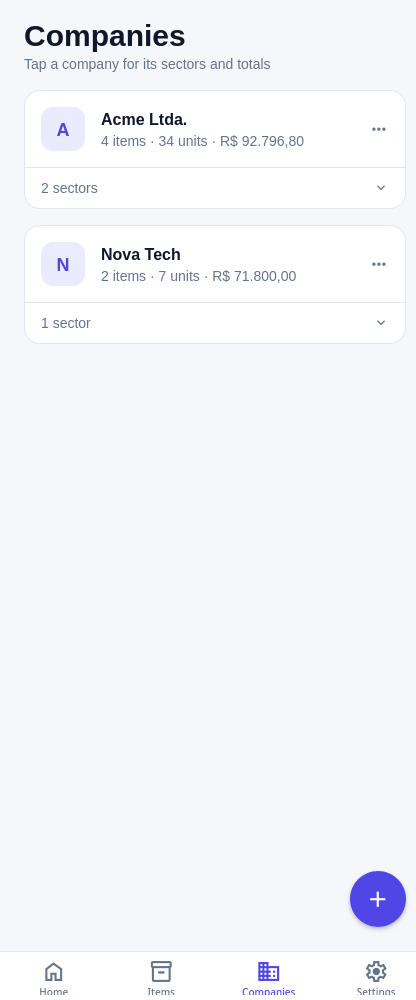
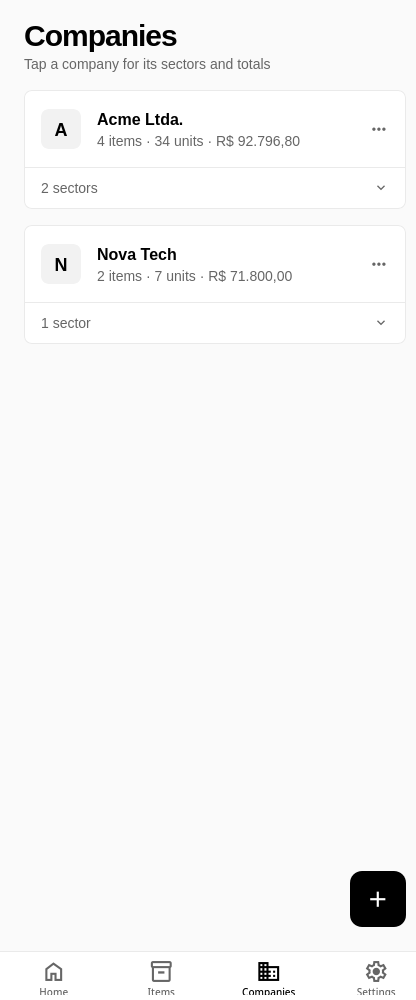
docs: refresh screenshots for the new design and languages; update readme

diff --git a/README.md b/README.md
@@ -16,6 +16,8 @@ between devices through CSV export/import.
 <p align="center">
   <img src="docs/screenshots/home-dark.png" width="23%" alt="Dashboard, dark theme" />
   <img src="docs/screenshots/items-dark.png" width="23%" alt="Items, dark theme" />
+  <img src="docs/screenshots/home-pt.png" width="23%" alt="Dashboard in Portuguese" />
+  <img src="docs/screenshots/items-pt.png" width="23%" alt="Items in Portuguese" />
 </p>
 
 ## Features
@@ -42,8 +44,17 @@ between devices through CSV export/import.
 
 **Settings**
 - Appearance: follow the system, or force light / dark (remembered across launches).
+- Language: **English** and **Português (BR)**; follows the device language by default and can be overridden.
 - CSV export / import (merge by ID, existing rows are kept).
 - Load sample data, or delete all data.
+
+## Design
+
+The UI follows a Vercel / Geist-inspired look: a near-monochrome black-and-white
+palette, hairline borders instead of shadows, tight radii, inverted primary buttons
+and tightly tracked headings. Blue is used only for links; amber and red are reserved
+for stock warnings and destructive actions. Both light and dark themes share the same
+tokens in `src/constants/theme.ts`.
 
 ## Tech stack
 
@@ -69,9 +80,13 @@ src/
 │   ├── useInventory.tsx     # inventory state provider + CRUD
 │   ├── use-theme-preference.tsx # system / light / dark preference
 │   └── use-theme.ts         # resolves the active color palette
+├── i18n/
+│   ├── translations.ts      # English and Portuguese dictionaries
+│   └── index.tsx            # I18nProvider and useT() (interpolation, plurals)
 ├── services/
 │   ├── storage.ts           # AsyncStorage CRUD
 │   ├── stock.ts             # totals, low-stock rules, text normalization
+│   ├── dialog.ts            # confirm / notify (works on native and web)
 │   └── csv.ts               # CSV export/import + BRL formatting
 └── types/index.ts           # Company, Sector, Item, InventoryData
 ```
@@ -137,7 +152,7 @@ sectors/items that reference a missing company or sector are dropped.
 | --- | --- |
 | `npm start` | Start the Expo dev server |
 | `npm run android` / `npm run ios` / `npm run web` | Start on a target platform |
-| `npm run lint` | Run `expo lint` |
+| `npm run lint` | Run ESLint (`eslint-config-expo`) |
 
 ## Builds
 
